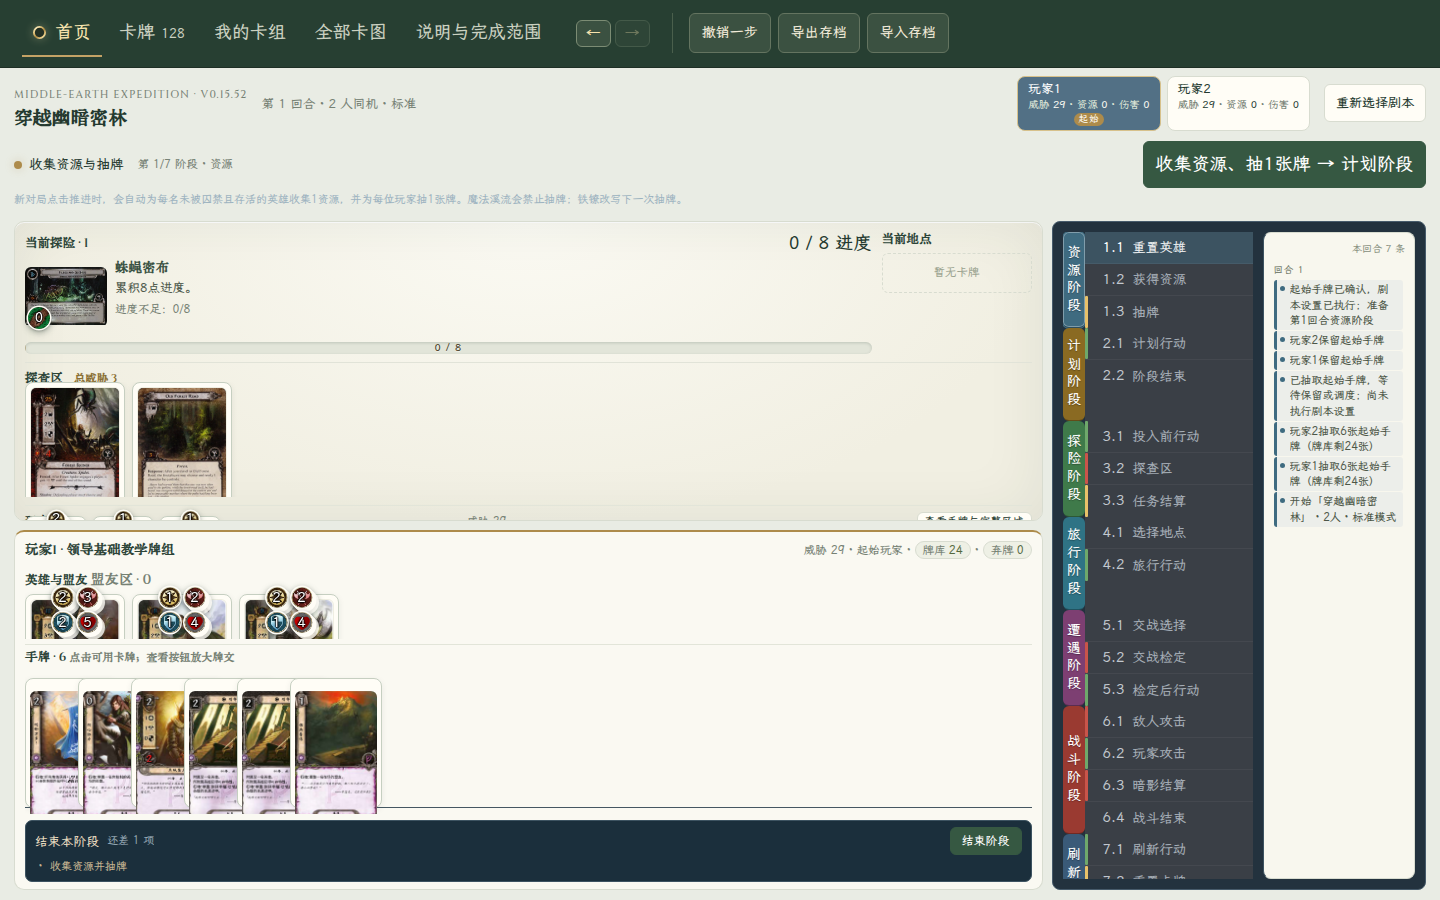
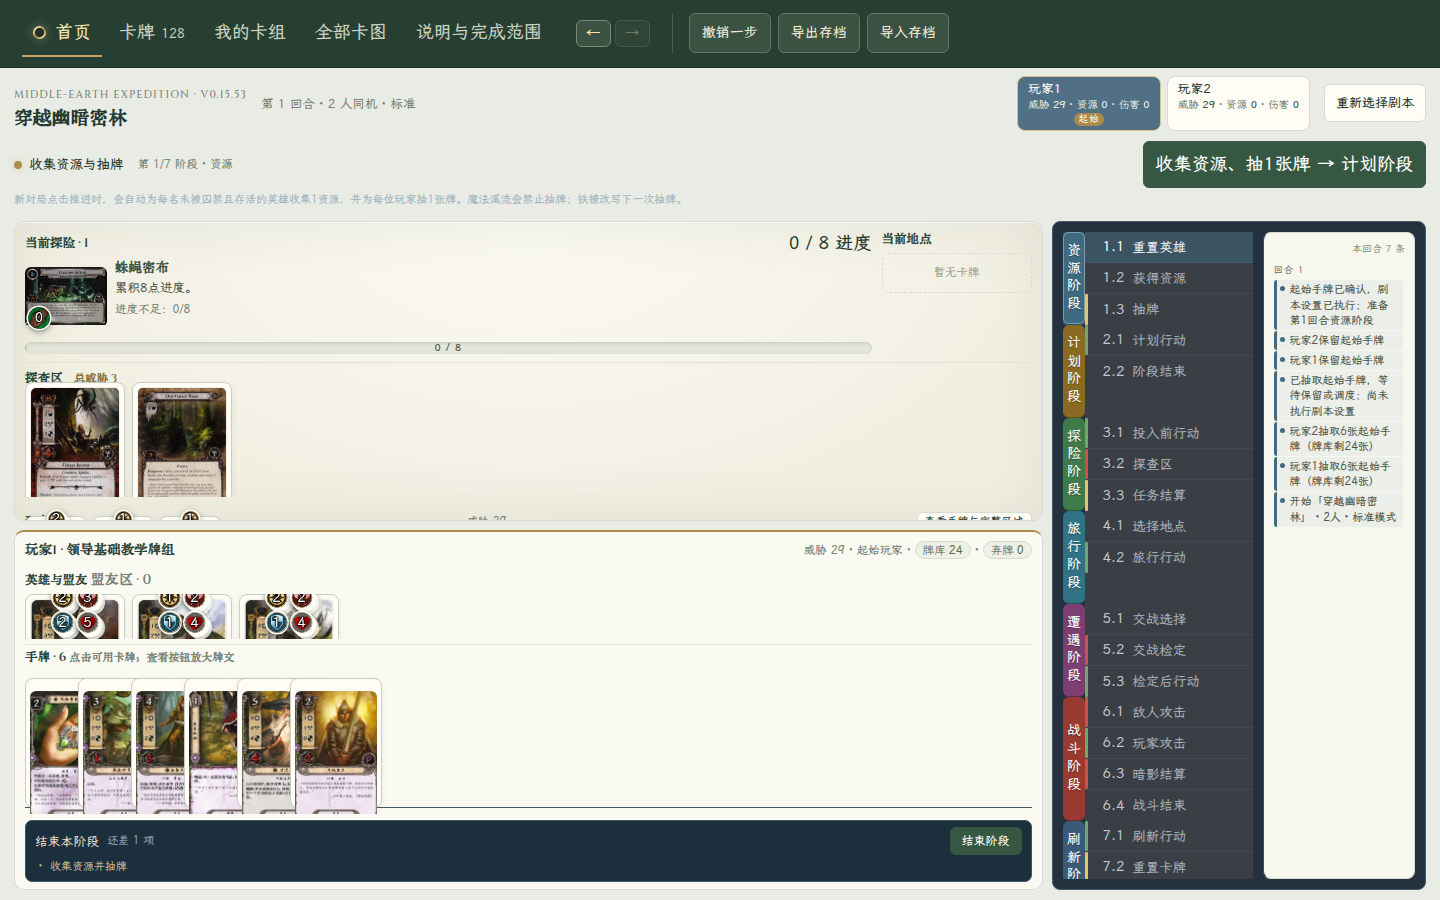
v0.15.54: 修复打出附属后手牌/结束阶段被裁——附属并入角色行，角色行内部滚动；新增 check-attachment 回归

diff --git a/index.html b/index.html
@@ -723,7 +723,10 @@ body:has(.desktop-table) .player-tabs button{min-height:40px;padding:4px 10px;ga
 .public-table{max-height:100%}
 /* 手牌区固定 172px（牌面 86px 宽 ≈ 122px 高 + 标签 24px + 内边距），角色区吃剩余 */
 .player-mat>.hand-zone{flex:0 0 172px}
-.player-mat>.own-characters{flex:1 1 auto}
+/* v0.15.54：附属并入角色行后，角色行内容可能超高——改为自身滚动，
+   绝不挤压/顶走手牌与结束阶段（overflow:hidden 曾把两者裁掉）。 */
+.player-mat>.own-characters{flex:1 1 auto;min-height:0;overflow:hidden}
+.player-mat>.own-characters>.table-card-row{overflow:auto;max-height:100%}
 
 /* 15. 牌桌区重排：探险条 + 地点并排（地点空时自动收窄），探查区与玩家角色区吃满。
        手牌区高度改为按牌面宽度算，避免宽屏下牌被裁成条。 */
@@ -9855,7 +9858,7 @@ const WindowUI=(()=>{
 </script><script src="phase-log.js"></script><script>
 /* Tabletop view: UI drafts never pay, exhaust, reveal, or bypass phase validation. */
 /* 界面版本徽标唯一来源：须与 CHANGELOG.md 最新条目标题一致（planning-dom-tests 有校验）。 */
-const APP_VERSION='v0.15.53';
+const APP_VERSION='v0.15.54';
 const DesktopUI=(()=>{
  const E=ScenarioEngine,R=E.planning,Q=E.questing,C=E.combat,esc=x=>String(x??'').replace(/[&<>"']/g,c=>({'&':'&amp;','<':'&lt;','>':'&gt;','"':'&quot;',"'":'&#39;'}[c]));
  let combatDraft={key:'',target:null,ids:[]},draftState=null;
@@ -10025,7 +10028,7 @@ const DesktopUI=(()=>{
   /* 玩家状态条：BGA 式汇总每位玩家的威胁／资源／伤害，点按即切换查看（复用 view 动作）。 */
  const tabStats=o=>{const res=o.heroStates?o.heroStates.reduce((n,h)=>n+h.resources,0):0,dmg=o.heroStates?o.heroStates.reduce((n,h)=>n+(h.damage||0),0):0;
   return `<span class="tab-stats">威胁 <b>${o.threat}</b> · 资源 <b>${res}</b> · 伤害 <b>${dmg}</b></span>${s.first===o.id?'<span class="first-mark">起始</span>':''}${o.eliminated?'<span class="elim-mark">淘汰</span>':''}`;};
- return `<div class="desktop-table"><div class="expedition-title"><div><span class="eyebrow">MIDDLE-EARTH EXPEDITION · ${APP_VERSION}</span><h1>${esc(s.session&&s.session.name||sc.name)}</h1></div><span>${s.session&&s.session.name?esc(sc.name)+' · ':''}第 ${s.round} 回合 · ${s.players.length} 人同机${s.session&&s.session.difficulty?' · '+({easy:'简单',normal:'标准',nightmare:'噩梦'}[s.session.difficulty]||''):''}</span><div class="player-tabs" role="group" aria-label="查看玩家">${s.players.map(o=>`<button data-action="desktop" data-desktop="view" data-player="${o.id}" class="${o.id===p.id?'active':''}" aria-pressed="${o.id===p.id}"><b class="tab-name">${esc(o.name)}</b>${tabStats(o)}</button>`).join('')}</div>${b('重新选择剧本','reset')}</div><div class="tabletop-layout"><div class="tabletop-main"><div class="operation-dock" role="region" aria-label="当前操作"><div class="operation-title"><span class="operation-indicator"></span><strong>${esc(prompt(s,m))}</strong><div class="operation-chips">${status(s)?.chips||''}</div><span class="small">第 ${s.phase+1}/7 阶段 · ${E.phases[s.phase]}</span>${next(s)}</div><p class="small phase-hint">${esc(phaseHint())}</p><div class="operation-content">${scorePanel(s)}${s.pending.length?pending():''}${phasePanel(s,p.id,m)}</div></div><div class="public-table"><div class="quest-location-row"><section class="table-zone quest-zone"><div class="zone-heading"><h2>当前探险 · ${esc(q.stage)}</h2><strong>${q.points?s.progress+' / '+q.points+' 进度':'特殊胜利条件'}</strong></div><div class="quest-display"><div class="quest-art-wrap">${ImageLibrary.art('enc-'+q.id,'',s.setupPending?'A':'B')}${q.points?`<div class="card-tokens quest-tokens" aria-hidden="true">${tk('progress',s.progress)}</div>`:''}</div><div><h3>${esc(q.name)}</h3><p>${esc(s.setupPending?q.front:q.back)}</p><span class="small muted">${esc(E.gate(s)||'满足条件后由规则自动推进')}</span></div></div>${q.points?`<div class="quest-progress" role="progressbar" aria-label="探险进度" aria-valuemin="0" aria-valuemax="${q.points}" aria-valuenow="${s.progress}"><div class="quest-progress-fill" style="width:${Math.min(100,Math.round(s.progress/q.points*100))}%"></div><span class="quest-progress-label">${s.progress} / ${q.points}</span></div>`:''}</section>${row('当前地点',s.active?encounter(s,s.active,'active',m):'','active-zone')}</div>${row('探查区 <span class="threat-total">总威胁 '+E.threat(s)+'</span>',s.staging.map(c=>encounter(s,c,'staging',m)).join(''))}${s.objectives.length?row('剧本目标',s.objectives.map(c=>encounter(s,c,'objective',m)).join('')):''}${others}</div><section class="player-mat"><div class="zone-heading"><h2>${esc(p.name)} · ${esc(p.registeredDeck?.name||'玩家区域')}</h2><span class="own-piles">威胁 ${p.threat}${s.first===p.id?' · 起始玩家':''} · <span class="pile-chip">牌库 <b>${p.playerDeck.length}</b></span> · <span class="pile-chip">弃牌 <b>${p.playerDiscard.length}</b></span></span></div>${row('英雄与盟友 <span class="small muted">盟友区 · '+p.allies.length+'</span>',playerChars(s,p).map(c=>character(s,c,m)).join(''),'own-characters')}${p.attachments.length?row('附属',p.attachments.map(c=>{const meta=R.data(s,c),host=R.find(s,c.target),legal=R.abilitySpec(s,p.id,c.uid).legal;return `<article class="table-card"><button class="card-face" data-action="planning" data-plan="ability" data-player="${p.id}" data-uid="${c.uid}" ${legal?'':'disabled'}>${art(c.code)}</button><div class="table-card-caption"><b>${esc(meta.nameZh)}</b><span>附于 ${esc(host?.meta.nameZh||host?.meta.name||'目标已离场')}</span></div>${inspect(c.code)}</article>`;}).join('')):''}${p.engaged.length?row('交战区',p.engaged.map(c=>encounter(s,c,'engaged',m)).join('')):''}${row('手牌 · '+p.hand.length+' <span class="small muted">点击可用卡牌；查看按钮放大牌文</span>',hand,'hand-zone')}<p class="small muted">同机模式可切换查看每位玩家手牌；不提供联网私密手牌。</p><div class="mat-phase">${PlayerUI.openingPanel(s)}${setupPanel(s)}${s.phase===1?PlanningUI.panel(s,p.id):s.phase===2?QuestUI.panel(s,p.id):s.phase===3?TravelUI.panel(s,p.id):s.phase===4?EncounterUI.panel(s,p.id):s.phase===5?CombatUI.panel(s,p.id):s.phase===6?RefreshUI.panel(s,p.id):''}${phaseDoor(s)}</div></section></div><aside class="tabletop-rail">${PhaseLog.rail(s,railOpen())}<section class="table-log" aria-label="远征日志">${PhaseLog.panel(s,logMarks(),logScope(),railOpen(),false)}</section></aside></div></div>`;
+ return `<div class="desktop-table"><div class="expedition-title"><div><span class="eyebrow">MIDDLE-EARTH EXPEDITION · ${APP_VERSION}</span><h1>${esc(s.session&&s.session.name||sc.name)}</h1></div><span>${s.session&&s.session.name?esc(sc.name)+' · ':''}第 ${s.round} 回合 · ${s.players.length} 人同机${s.session&&s.session.difficulty?' · '+({easy:'简单',normal:'标准',nightmare:'噩梦'}[s.session.difficulty]||''):''}</span><div class="player-tabs" role="group" aria-label="查看玩家">${s.players.map(o=>`<button data-action="desktop" data-desktop="view" data-player="${o.id}" class="${o.id===p.id?'active':''}" aria-pressed="${o.id===p.id}"><b class="tab-name">${esc(o.name)}</b>${tabStats(o)}</button>`).join('')}</div>${b('重新选择剧本','reset')}</div><div class="tabletop-layout"><div class="tabletop-main"><div class="operation-dock" role="region" aria-label="当前操作"><div class="operation-title"><span class="operation-indicator"></span><strong>${esc(prompt(s,m))}</strong><div class="operation-chips">${status(s)?.chips||''}</div><span class="small">第 ${s.phase+1}/7 阶段 · ${E.phases[s.phase]}</span>${next(s)}</div><p class="small phase-hint">${esc(phaseHint())}</p><div class="operation-content">${scorePanel(s)}${s.pending.length?pending():''}${phasePanel(s,p.id,m)}</div></div><div class="public-table"><div class="quest-location-row"><section class="table-zone quest-zone"><div class="zone-heading"><h2>当前探险 · ${esc(q.stage)}</h2><strong>${q.points?s.progress+' / '+q.points+' 进度':'特殊胜利条件'}</strong></div><div class="quest-display"><div class="quest-art-wrap">${ImageLibrary.art('enc-'+q.id,'',s.setupPending?'A':'B')}${q.points?`<div class="card-tokens quest-tokens" aria-hidden="true">${tk('progress',s.progress)}</div>`:''}</div><div><h3>${esc(q.name)}</h3><p>${esc(s.setupPending?q.front:q.back)}</p><span class="small muted">${esc(E.gate(s)||'满足条件后由规则自动推进')}</span></div></div>${q.points?`<div class="quest-progress" role="progressbar" aria-label="探险进度" aria-valuemin="0" aria-valuemax="${q.points}" aria-valuenow="${s.progress}"><div class="quest-progress-fill" style="width:${Math.min(100,Math.round(s.progress/q.points*100))}%"></div><span class="quest-progress-label">${s.progress} / ${q.points}</span></div>`:''}</section>${row('当前地点',s.active?encounter(s,s.active,'active',m):'','active-zone')}</div>${row('探查区 <span class="threat-total">总威胁 '+E.threat(s)+'</span>',s.staging.map(c=>encounter(s,c,'staging',m)).join(''))}${s.objectives.length?row('剧本目标',s.objectives.map(c=>encounter(s,c,'objective',m)).join('')):''}${others}</div><section class="player-mat"><div class="zone-heading"><h2>${esc(p.name)} · ${esc(p.registeredDeck?.name||'玩家区域')}</h2><span class="own-piles">威胁 ${p.threat}${s.first===p.id?' · 起始玩家':''} · <span class="pile-chip">牌库 <b>${p.playerDeck.length}</b></span> · <span class="pile-chip">弃牌 <b>${p.playerDiscard.length}</b></span></span></div>${row('英雄与盟友 <span class="small muted">盟友区 · '+p.allies.length+(p.attachments.length?' · 附属 '+p.attachments.length:'')+'</span>',playerChars(s,p).map(c=>character(s,c,m)).join('')+p.attachments.map(c=>{const meta=R.data(s,c),host=R.find(s,c.target),legal=R.abilitySpec(s,p.id,c.uid).legal;return `<article class="table-card"><button class="card-face" data-action="planning" data-plan="ability" data-player="${p.id}" data-uid="${c.uid}" ${legal?'':'disabled'}>${art(c.code)}</button><div class="table-card-caption"><b>${esc(meta.nameZh)}</b><span>附于 ${esc(host?.meta.nameZh||host?.meta.name||'目标已离场')}</span></div>${inspect(c.code)}</article>`;}).join(''),'own-characters')}${p.engaged.length?row('交战区',p.engaged.map(c=>encounter(s,c,'engaged',m)).join('')):''}${row('手牌 · '+p.hand.length+' <span class="small muted">点击可用卡牌；查看按钮放大牌文</span>',hand,'hand-zone')}<p class="small muted">同机模式可切换查看每位玩家手牌；不提供联网私密手牌。</p><div class="mat-phase">${PlayerUI.openingPanel(s)}${setupPanel(s)}${s.phase===1?PlanningUI.panel(s,p.id):s.phase===2?QuestUI.panel(s,p.id):s.phase===3?TravelUI.panel(s,p.id):s.phase===4?EncounterUI.panel(s,p.id):s.phase===5?CombatUI.panel(s,p.id):s.phase===6?RefreshUI.panel(s,p.id):''}${phaseDoor(s)}</div></section></div><aside class="tabletop-rail">${PhaseLog.rail(s,railOpen())}<section class="table-log" aria-label="远征日志">${PhaseLog.panel(s,logMarks(),logScope(),railOpen(),false)}</section></aside></div></div>`;
  }
  function handle(el){const k=el.dataset.desktop,uid=+el.dataset.uid,pid=+el.dataset.player,m=mode(state,handView),d=draft(state,m);
   if(k==='view'){handView=pid;render();return;}if(k==='reset'){if(confirm('结束当前桌面并重新选择剧本？建议先导出存档。'))mutate(()=>state=null);return;}

diff --git a/desktop-ui.js b/desktop-ui.js
@@ -1,6 +1,6 @@
 /* Tabletop view: UI drafts never pay, exhaust, reveal, or bypass phase validation. */
 /* 界面版本徽标唯一来源：须与 CHANGELOG.md 最新条目标题一致（planning-dom-tests 有校验）。 */
-const APP_VERSION='v0.15.53';
+const APP_VERSION='v0.15.54';
 const DesktopUI=(()=>{
  const E=ScenarioEngine,R=E.planning,Q=E.questing,C=E.combat,esc=x=>String(x??'').replace(/[&<>"']/g,c=>({'&':'&amp;','<':'&lt;','>':'&gt;','"':'&quot;',"'":'&#39;'}[c]));
  let combatDraft={key:'',target:null,ids:[]},draftState=null;
@@ -170,7 +170,7 @@ const DesktopUI=(()=>{
   /* 玩家状态条：BGA 式汇总每位玩家的威胁／资源／伤害，点按即切换查看（复用 view 动作）。 */
  const tabStats=o=>{const res=o.heroStates?o.heroStates.reduce((n,h)=>n+h.resources,0):0,dmg=o.heroStates?o.heroStates.reduce((n,h)=>n+(h.damage||0),0):0;
   return `<span class="tab-stats">威胁 <b>${o.threat}</b> · 资源 <b>${res}</b> · 伤害 <b>${dmg}</b></span>${s.first===o.id?'<span class="first-mark">起始</span>':''}${o.eliminated?'<span class="elim-mark">淘汰</span>':''}`;};
- return `<div class="desktop-table"><div class="expedition-title"><div><span class="eyebrow">MIDDLE-EARTH EXPEDITION · ${APP_VERSION}</span><h1>${esc(s.session&&s.session.name||sc.name)}</h1></div><span>${s.session&&s.session.name?esc(sc.name)+' · ':''}第 ${s.round} 回合 · ${s.players.length} 人同机${s.session&&s.session.difficulty?' · '+({easy:'简单',normal:'标准',nightmare:'噩梦'}[s.session.difficulty]||''):''}</span><div class="player-tabs" role="group" aria-label="查看玩家">${s.players.map(o=>`<button data-action="desktop" data-desktop="view" data-player="${o.id}" class="${o.id===p.id?'active':''}" aria-pressed="${o.id===p.id}"><b class="tab-name">${esc(o.name)}</b>${tabStats(o)}</button>`).join('')}</div>${b('重新选择剧本','reset')}</div><div class="tabletop-layout"><div class="tabletop-main"><div class="operation-dock" role="region" aria-label="当前操作"><div class="operation-title"><span class="operation-indicator"></span><strong>${esc(prompt(s,m))}</strong><div class="operation-chips">${status(s)?.chips||''}</div><span class="small">第 ${s.phase+1}/7 阶段 · ${E.phases[s.phase]}</span>${next(s)}</div><p class="small phase-hint">${esc(phaseHint())}</p><div class="operation-content">${scorePanel(s)}${s.pending.length?pending():''}${phasePanel(s,p.id,m)}</div></div><div class="public-table"><div class="quest-location-row"><section class="table-zone quest-zone"><div class="zone-heading"><h2>当前探险 · ${esc(q.stage)}</h2><strong>${q.points?s.progress+' / '+q.points+' 进度':'特殊胜利条件'}</strong></div><div class="quest-display"><div class="quest-art-wrap">${ImageLibrary.art('enc-'+q.id,'',s.setupPending?'A':'B')}${q.points?`<div class="card-tokens quest-tokens" aria-hidden="true">${tk('progress',s.progress)}</div>`:''}</div><div><h3>${esc(q.name)}</h3><p>${esc(s.setupPending?q.front:q.back)}</p><span class="small muted">${esc(E.gate(s)||'满足条件后由规则自动推进')}</span></div></div>${q.points?`<div class="quest-progress" role="progressbar" aria-label="探险进度" aria-valuemin="0" aria-valuemax="${q.points}" aria-valuenow="${s.progress}"><div class="quest-progress-fill" style="width:${Math.min(100,Math.round(s.progress/q.points*100))}%"></div><span class="quest-progress-label">${s.progress} / ${q.points}</span></div>`:''}</section>${row('当前地点',s.active?encounter(s,s.active,'active',m):'','active-zone')}</div>${row('探查区 <span class="threat-total">总威胁 '+E.threat(s)+'</span>',s.staging.map(c=>encounter(s,c,'staging',m)).join(''))}${s.objectives.length?row('剧本目标',s.objectives.map(c=>encounter(s,c,'objective',m)).join('')):''}${others}</div><section class="player-mat"><div class="zone-heading"><h2>${esc(p.name)} · ${esc(p.registeredDeck?.name||'玩家区域')}</h2><span class="own-piles">威胁 ${p.threat}${s.first===p.id?' · 起始玩家':''} · <span class="pile-chip">牌库 <b>${p.playerDeck.length}</b></span> · <span class="pile-chip">弃牌 <b>${p.playerDiscard.length}</b></span></span></div>${row('英雄与盟友 <span class="small muted">盟友区 · '+p.allies.length+'</span>',playerChars(s,p).map(c=>character(s,c,m)).join(''),'own-characters')}${p.attachments.length?row('附属',p.attachments.map(c=>{const meta=R.data(s,c),host=R.find(s,c.target),legal=R.abilitySpec(s,p.id,c.uid).legal;return `<article class="table-card"><button class="card-face" data-action="planning" data-plan="ability" data-player="${p.id}" data-uid="${c.uid}" ${legal?'':'disabled'}>${art(c.code)}</button><div class="table-card-caption"><b>${esc(meta.nameZh)}</b><span>附于 ${esc(host?.meta.nameZh||host?.meta.name||'目标已离场')}</span></div>${inspect(c.code)}</article>`;}).join('')):''}${p.engaged.length?row('交战区',p.engaged.map(c=>encounter(s,c,'engaged',m)).join('')):''}${row('手牌 · '+p.hand.length+' <span class="small muted">点击可用卡牌；查看按钮放大牌文</span>',hand,'hand-zone')}<p class="small muted">同机模式可切换查看每位玩家手牌；不提供联网私密手牌。</p><div class="mat-phase">${PlayerUI.openingPanel(s)}${setupPanel(s)}${s.phase===1?PlanningUI.panel(s,p.id):s.phase===2?QuestUI.panel(s,p.id):s.phase===3?TravelUI.panel(s,p.id):s.phase===4?EncounterUI.panel(s,p.id):s.phase===5?CombatUI.panel(s,p.id):s.phase===6?RefreshUI.panel(s,p.id):''}${phaseDoor(s)}</div></section></div><aside class="tabletop-rail">${PhaseLog.rail(s,railOpen())}<section class="table-log" aria-label="远征日志">${PhaseLog.panel(s,logMarks(),logScope(),railOpen(),false)}</section></aside></div></div>`;
+ return `<div class="desktop-table"><div class="expedition-title"><div><span class="eyebrow">MIDDLE-EARTH EXPEDITION · ${APP_VERSION}</span><h1>${esc(s.session&&s.session.name||sc.name)}</h1></div><span>${s.session&&s.session.name?esc(sc.name)+' · ':''}第 ${s.round} 回合 · ${s.players.length} 人同机${s.session&&s.session.difficulty?' · '+({easy:'简单',normal:'标准',nightmare:'噩梦'}[s.session.difficulty]||''):''}</span><div class="player-tabs" role="group" aria-label="查看玩家">${s.players.map(o=>`<button data-action="desktop" data-desktop="view" data-player="${o.id}" class="${o.id===p.id?'active':''}" aria-pressed="${o.id===p.id}"><b class="tab-name">${esc(o.name)}</b>${tabStats(o)}</button>`).join('')}</div>${b('重新选择剧本','reset')}</div><div class="tabletop-layout"><div class="tabletop-main"><div class="operation-dock" role="region" aria-label="当前操作"><div class="operation-title"><span class="operation-indicator"></span><strong>${esc(prompt(s,m))}</strong><div class="operation-chips">${status(s)?.chips||''}</div><span class="small">第 ${s.phase+1}/7 阶段 · ${E.phases[s.phase]}</span>${next(s)}</div><p class="small phase-hint">${esc(phaseHint())}</p><div class="operation-content">${scorePanel(s)}${s.pending.length?pending():''}${phasePanel(s,p.id,m)}</div></div><div class="public-table"><div class="quest-location-row"><section class="table-zone quest-zone"><div class="zone-heading"><h2>当前探险 · ${esc(q.stage)}</h2><strong>${q.points?s.progress+' / '+q.points+' 进度':'特殊胜利条件'}</strong></div><div class="quest-display"><div class="quest-art-wrap">${ImageLibrary.art('enc-'+q.id,'',s.setupPending?'A':'B')}${q.points?`<div class="card-tokens quest-tokens" aria-hidden="true">${tk('progress',s.progress)}</div>`:''}</div><div><h3>${esc(q.name)}</h3><p>${esc(s.setupPending?q.front:q.back)}</p><span class="small muted">${esc(E.gate(s)||'满足条件后由规则自动推进')}</span></div></div>${q.points?`<div class="quest-progress" role="progressbar" aria-label="探险进度" aria-valuemin="0" aria-valuemax="${q.points}" aria-valuenow="${s.progress}"><div class="quest-progress-fill" style="width:${Math.min(100,Math.round(s.progress/q.points*100))}%"></div><span class="quest-progress-label">${s.progress} / ${q.points}</span></div>`:''}</section>${row('当前地点',s.active?encounter(s,s.active,'active',m):'','active-zone')}</div>${row('探查区 <span class="threat-total">总威胁 '+E.threat(s)+'</span>',s.staging.map(c=>encounter(s,c,'staging',m)).join(''))}${s.objectives.length?row('剧本目标',s.objectives.map(c=>encounter(s,c,'objective',m)).join('')):''}${others}</div><section class="player-mat"><div class="zone-heading"><h2>${esc(p.name)} · ${esc(p.registeredDeck?.name||'玩家区域')}</h2><span class="own-piles">威胁 ${p.threat}${s.first===p.id?' · 起始玩家':''} · <span class="pile-chip">牌库 <b>${p.playerDeck.length}</b></span> · <span class="pile-chip">弃牌 <b>${p.playerDiscard.length}</b></span></span></div>${row('英雄与盟友 <span class="small muted">盟友区 · '+p.allies.length+(p.attachments.length?' · 附属 '+p.attachments.length:'')+'</span>',playerChars(s,p).map(c=>character(s,c,m)).join('')+p.attachments.map(c=>{const meta=R.data(s,c),host=R.find(s,c.target),legal=R.abilitySpec(s,p.id,c.uid).legal;return `<article class="table-card"><button class="card-face" data-action="planning" data-plan="ability" data-player="${p.id}" data-uid="${c.uid}" ${legal?'':'disabled'}>${art(c.code)}</button><div class="table-card-caption"><b>${esc(meta.nameZh)}</b><span>附于 ${esc(host?.meta.nameZh||host?.meta.name||'目标已离场')}</span></div>${inspect(c.code)}</article>`;}).join(''),'own-characters')}${p.engaged.length?row('交战区',p.engaged.map(c=>encounter(s,c,'engaged',m)).join('')):''}${row('手牌 · '+p.hand.length+' <span class="small muted">点击可用卡牌；查看按钮放大牌文</span>',hand,'hand-zone')}<p class="small muted">同机模式可切换查看每位玩家手牌；不提供联网私密手牌。</p><div class="mat-phase">${PlayerUI.openingPanel(s)}${setupPanel(s)}${s.phase===1?PlanningUI.panel(s,p.id):s.phase===2?QuestUI.panel(s,p.id):s.phase===3?TravelUI.panel(s,p.id):s.phase===4?EncounterUI.panel(s,p.id):s.phase===5?CombatUI.panel(s,p.id):s.phase===6?RefreshUI.panel(s,p.id):''}${phaseDoor(s)}</div></section></div><aside class="tabletop-rail">${PhaseLog.rail(s,railOpen())}<section class="table-log" aria-label="远征日志">${PhaseLog.panel(s,logMarks(),logScope(),railOpen(),false)}</section></aside></div></div>`;
  }
  function handle(el){const k=el.dataset.desktop,uid=+el.dataset.uid,pid=+el.dataset.player,m=mode(state,handView),d=draft(state,m);
   if(k==='view'){handView=pid;render();return;}if(k==='reset'){if(confirm('结束当前桌面并重新选择剧本？建议先导出存档。'))mutate(()=>state=null);return;}

diff --git a/style.css b/style.css
@@ -721,7 +721,10 @@ body:has(.desktop-table) .player-tabs button{min-height:40px;padding:4px 10px;ga
 .public-table{max-height:100%}
 /* 手牌区固定 172px（牌面 86px 宽 ≈ 122px 高 + 标签 24px + 内边距），角色区吃剩余 */
 .player-mat>.hand-zone{flex:0 0 172px}
-.player-mat>.own-characters{flex:1 1 auto}
+/* v0.15.54：附属并入角色行后，角色行内容可能超高——改为自身滚动，
+   绝不挤压/顶走手牌与结束阶段（overflow:hidden 曾把两者裁掉）。 */
+.player-mat>.own-characters{flex:1 1 auto;min-height:0;overflow:hidden}
+.player-mat>.own-characters>.table-card-row{overflow:auto;max-height:100%}
 
 /* 15. 牌桌区重排：探险条 + 地点并排（地点空时自动收窄），探查区与玩家角色区吃满。
        手牌区高度改为按牌面宽度算，避免宽屏下牌被裁成条。 */

diff --git a/CHANGELOG.md b/CHANGELOG.md
@@ -1,4 +1,12 @@
+# v0.15.54 · 修复：打出附属后手牌与结束阶段被裁掉（2026-10-24）
+
+- **根因**：附属卡独占一行 `.table-zone`（标题 + 122px 卡面 ≈ 267px），而 `.player-mat` 是 `overflow:hidden` 的固定高度网格行。打出附属后内容总高 639px 远超 380px 容器——flex 布局压缩角色行也填不平，手牌行（152px）与 `.mat-phase`（结束阶段，96px）被整块推出容器底部裁掉，表现为「只剩附属卡，没有手牌也没有结束阶段」。
+- **修法**：附属并入「英雄与盟友」同一行（附属本来就附着在角色上，语义一致），标题计数显示「盟友区 · n · 附属 m」；`.own-characters` 改为 `min-height:0 + 内部滚动`，角色行内容再多也只在自己范围内滚动，永不挤压/顶走手牌与结束阶段。修复后 mat 内容 377px ≤ 380px，手牌 7 张与结束阶段按钮均可见。
+- **回归脚本**：新增 `scripts/check-attachment.cjs`（真实浏览器打附属 → 断言附属入场、不溢出、手牌可见、结束阶段可见），5/5 通过。
+- 验收：check-layout 16/16、check-taskbar 23/23、check-score 19/19、check-onescreen 五区可见、check-contrast 0 低对比。
+
 # v0.15.53 · 竖轴再放大一档（2026-10-24）
+
 
 - 通高实测 697px 后再放开：行高 24→31px（20 × 31 = 620，留 77px 余量不滚动）、编号 14px、标签 13.5px、行内间距 8px、右内边距 8px、阶段名 14px/字距 4px/上下留白 10px、竖轴列宽 176→190px。32px 档实测溢出 1px，回调 31px 后 scrollHeight == height 无滚动。
 - 验收：check-layout 16/16、check-taskbar 23/23、check-onescreen 五区可见、check-contrast 0 低对比。
